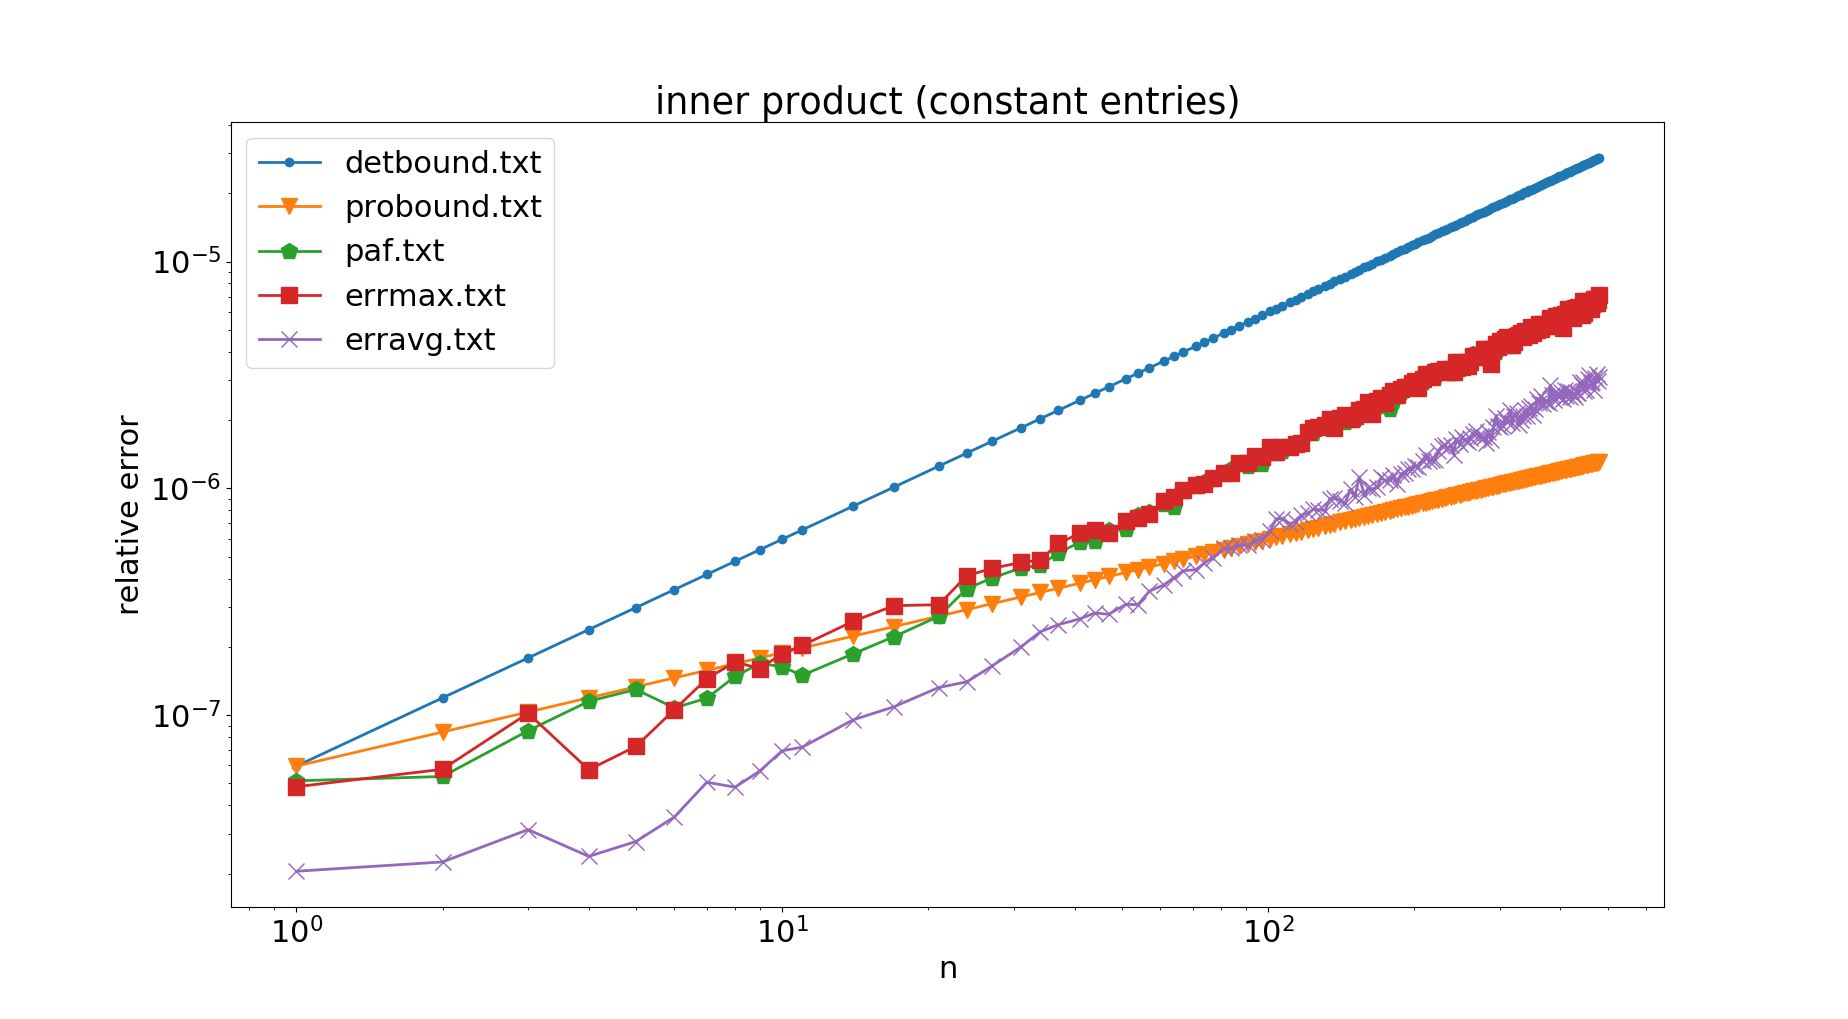
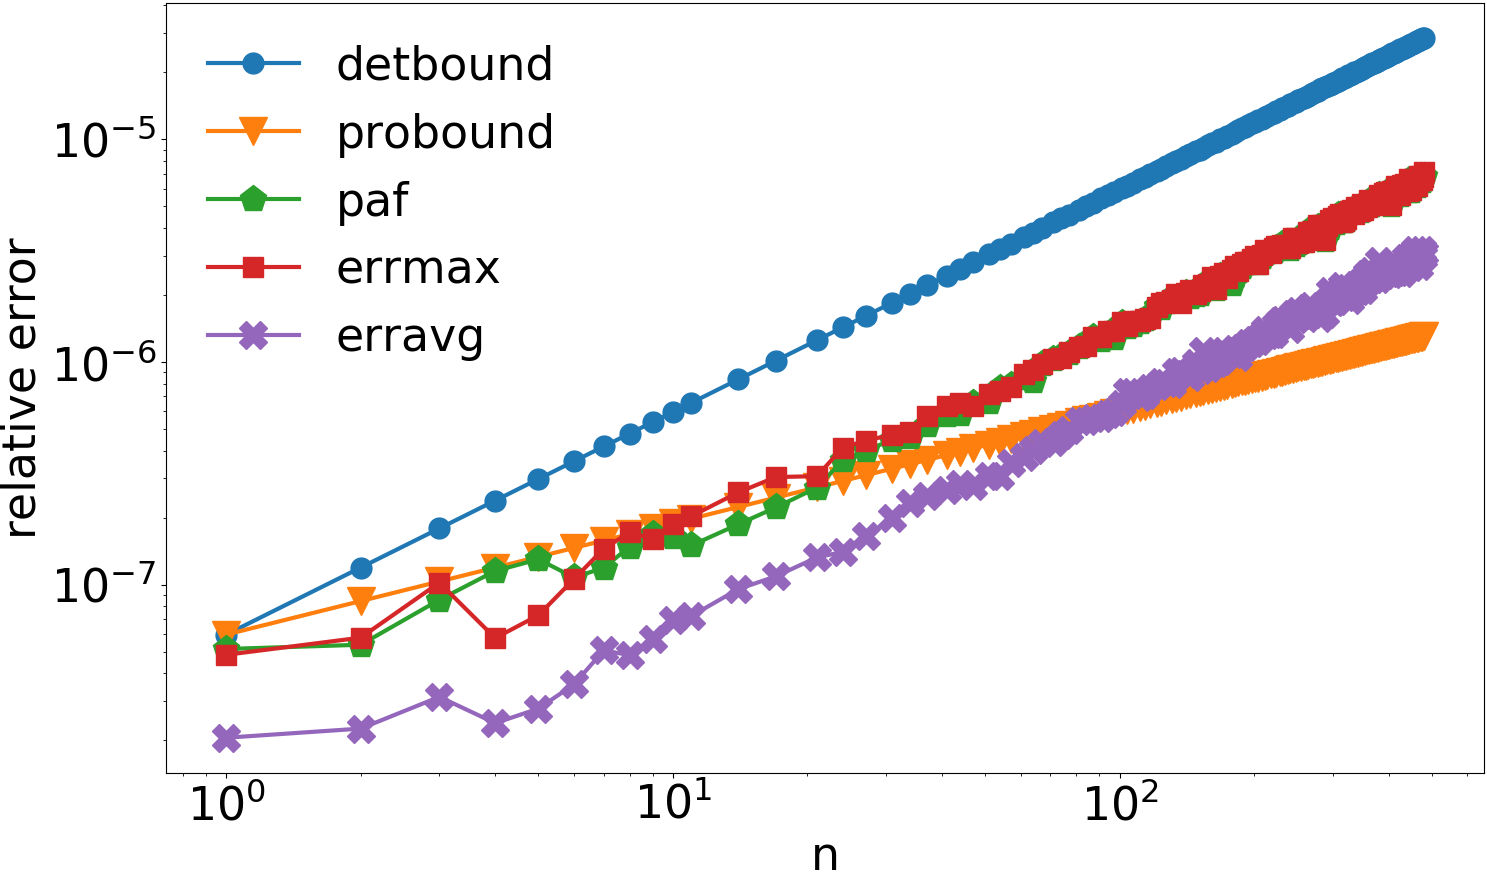
Rocco: constant images

diff --git a/Higham/3_Dot_Product_Constants/3/plotter.py b/Higham/3_Dot_Product_Constants/3/plotter.py
@@ -2,30 +2,47 @@ import matplotlib.pyplot as plt
 import os
 import numpy as np
 
-plt.rcParams.update({'font.size': 22})
-plt.figure()
+plt.rcParams.update({'font.size': 33})
+plt.figure(figsize=(17, 10))
 
 x=open("./3_x.txt","r").read().split()
 x=list(map(int, x))
 
 markers=[".","v","p","s","x"]
 i=0
-for folder in os.listdir("./"):
-	print(folder)
-	if "3_" in folder and ".txt" in folder and not "3_x" in folder:
-		tmp=open("./"+folder,"r").read()
-		values=list(map(float, tmp.split()))
-		#print(folder)
-		#print(values)
-		plt.plot(x, values, label=folder.split("_")[1], linewidth=2, marker=markers[i], markersize=12)
-		i=i+1
 
-plt.title("inner product (constant entries)")
+#for folder in os.listdir("./"):
+#	if "1_" in folder and ".txt" in folder and not "1_x" in folder:
+
+tmp=open("./3_detbound.txt","r").read()
+values=list(map(float, tmp.split()))
+plt.plot(x, values, label="detbound", linewidth=3, marker=".", markersize=30)
+
+tmp=open("./3_probound.txt","r").read()
+values=list(map(float, tmp.split()))
+plt.plot(x, values, label="probound", linewidth=3, marker="v", markersize=20)
+
+tmp=open("./3_paf.txt","r").read()
+values=list(map(float, tmp.split()))
+plt.plot(x, values, label="paf", linewidth=3, marker="p", markersize=20)
+
+tmp=open("./3_errmax.txt","r").read()
+values=list(map(float, tmp.split()))
+plt.plot(x, values, label="errmax", linewidth=3, marker="s", markersize=15)
+
+tmp=open("./3_erravg.txt","r").read()
+values=list(map(float, tmp.split()))
+plt.plot(x, values, label="erravg", linewidth=3, marker="X", markersize=20)
+
+#plt.title("inner product (random entries)")
 plt.xlabel('n')
 plt.yscale('log')
 plt.xscale('log')
 plt.ylabel('relative error')
 #plt.ticklabel_format(axis='y', style='sci', scilimits=(0, 0))
-plt.legend()
+plt.legend(frameon=False)
+
+plt.savefig("constants.png", bbox_inches = 'tight',
+    pad_inches = 0)
+
 plt.show()
-		
